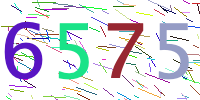
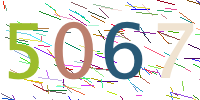
添加了一个生成 Gif 动图的验证码方法

diff --git a/src/main/java/com/example/common/TestCaptcha.java b/src/main/java/com/example/common/TestCaptcha.java
@@ -14,6 +14,7 @@ public class TestCaptcha {
         exciseFour();
         exciseFive();
         exciseSix();
+        exciseSeven();
 
     }
 
@@ -112,5 +113,19 @@ public class TestCaptcha {
         //验证图形验证码的有效性，返回boolean值
         Boolean resSix = captcha.verify("1234");
         Console.log(" = resSix = " + resSix);
+    }
+
+    // GIF我最闪亮验证码
+    public static void exciseSeven() {
+        GifCaptcha gifCaptcha = CaptchaUtil.createGifCaptcha(500, 200, 8);
+        gifCaptcha.write("d:/gifCaptcha.gif");
+        String gifCaptchaCode = gifCaptcha.getCode();
+        // 打印验证码字符
+        Console.log("gifCaptchaCode", gifCaptchaCode);
+        //新的验证码
+        Console.log(" = Seven = " + gifCaptcha.getCode());
+        //验证图形验证码的有效性，返回boolean值
+        Boolean resSeven = gifCaptcha.verify("1234");
+        Console.log(" = resSeven = " + resSeven);
     }
 }
